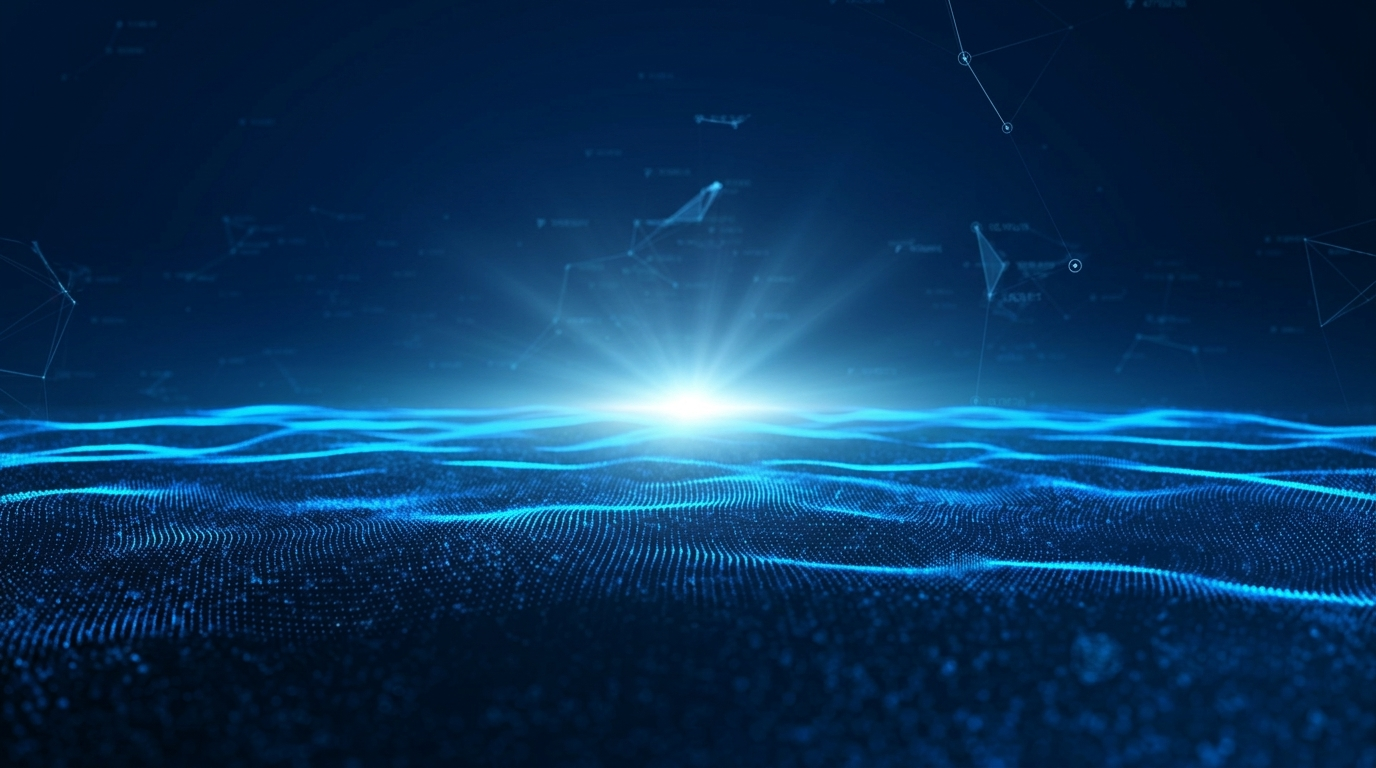
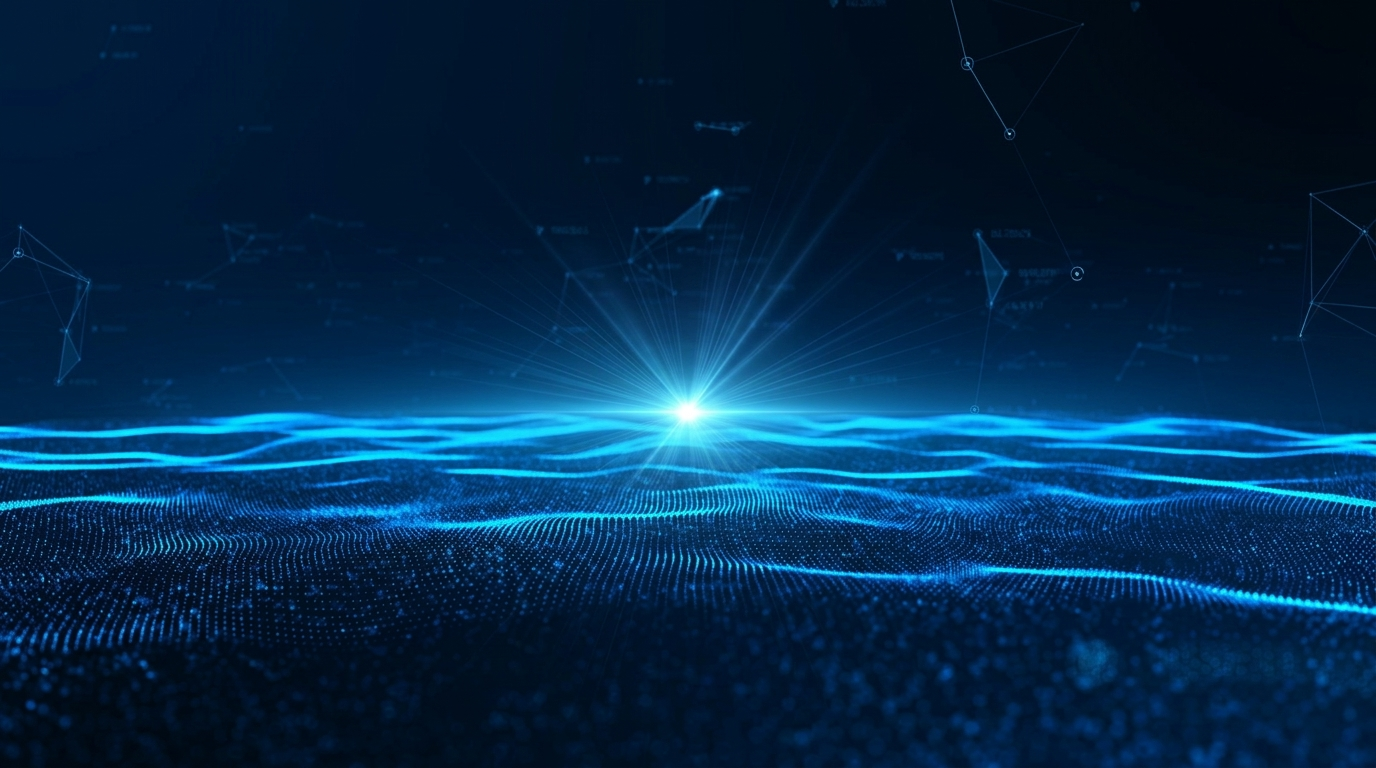
feat

diff --git a/css/blackfriday.css b/css/blackfriday.css
@@ -45,19 +45,8 @@ html, body {
   height: 100%;
   display: flex;
   flex-direction: column;
-  background: url("../img/dashboard-bg.jpg") center center / cover no-repeat, #03081a;
+  background: url("../img/dashboard-bg.jpg?v=20261029_sharp") center bottom / cover no-repeat, #03081a;
   overflow: hidden;
-}
-
-/* 微妙科技扫描线特效 (可选轻量层) */
-.dashboard-screen::before {
-  content: "";
-  position: absolute;
-  top: 0; left: 0; right: 0; bottom: 0;
-  background: linear-gradient(rgba(18, 16, 16, 0) 50%, rgba(0, 0, 0, 0.08) 50%);
-  background-size: 100% 4px;
-  pointer-events: none;
-  z-index: 999;
 }
 
 /* ================== 顶部科技 Header (复刻图一上部) ================== */
@@ -70,9 +59,7 @@ html, body {
   justify-content: space-between;
   padding: 0 24px;
   border-bottom: 1px solid rgba(0, 240, 255, 0.25);
-  background: linear-gradient(180deg, rgba(6, 18, 48, 0.65) 0%, rgba(4, 12, 34, 0.35) 100%);
-  backdrop-filter: blur(8px);
-  -webkit-backdrop-filter: blur(8px);
+  background: linear-gradient(180deg, rgba(6, 18, 48, 0.72) 0%, rgba(4, 12, 34, 0.42) 100%);
   z-index: 10;
 }
 
@@ -310,8 +297,6 @@ html, body {
 .store-kpi-card {
   position: relative;
   background: var(--bg-card);
-  backdrop-filter: blur(8px);
-  -webkit-backdrop-filter: blur(8px);
   border: 1px solid rgba(0, 240, 255, 0.28);
   border-radius: 6px;
   padding: 10px 14px;
@@ -451,8 +436,6 @@ html, body {
 .hud-card {
   position: relative;
   background: var(--bg-card);
-  backdrop-filter: blur(8px);
-  -webkit-backdrop-filter: blur(8px);
   border: 1px solid rgba(0, 240, 255, 0.3);
   border-radius: 6px;
   display: flex;

diff --git a/index.html b/index.html
@@ -4,7 +4,7 @@
   <meta charset="UTF-8" />
   <meta name="viewport" content="width=device-width, initial-scale=1.0" />
   <title>AMS 销售看板</title>
-  <link rel="stylesheet" href="css/blackfriday.css?v=20261029_clean" />
+  <link rel="stylesheet" href="css/blackfriday.css?v=20261029_sharp" />
 </head>
 <body>
   <div class="dashboard-screen">
